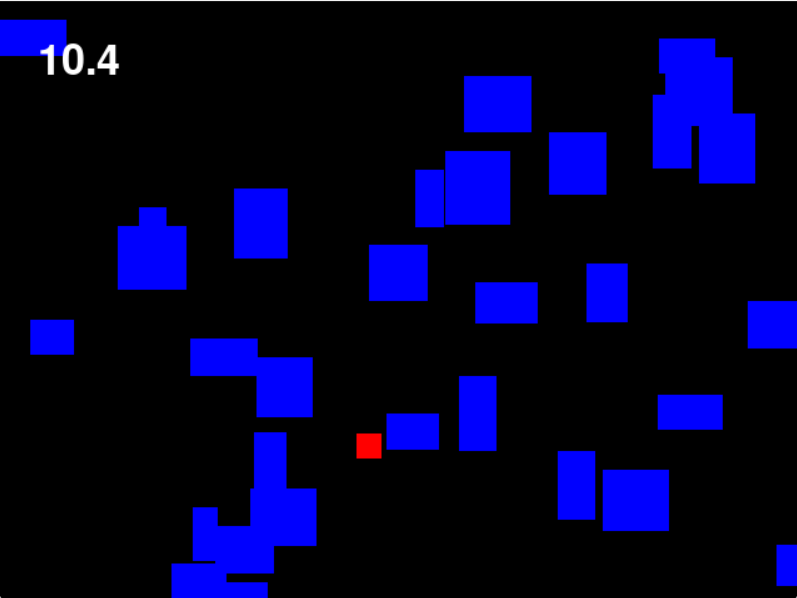
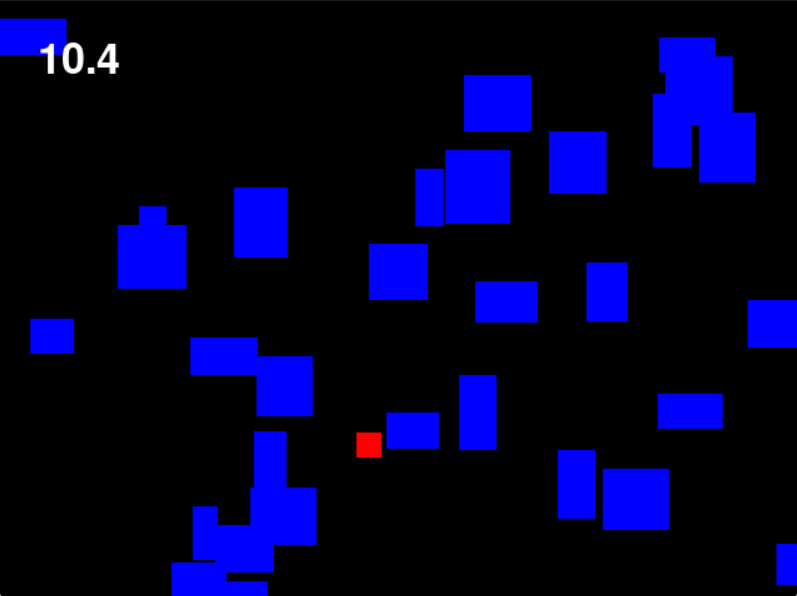
docs: update README

diff --git a/README.md b/README.md
@@ -1,17 +1,27 @@
 # pygame-dodge-game
 Pygameで小さな避けゲーを作り、制作テンプレート化を目指す学習用プロジェクトです。
 
-
-
 ## How to Play
 
-1. プロジェクトのフォルダを開く
-2. ターミナル（コマンドプロンプト）を開く
-3. 以下のコマンドを実行する
+1. Python 3.13.9 のインストール
+2. リポジトリをクローン
+    ```bash
+    git clone https://github.com/dev-haku/pygame-dodge-game.git
+    ```
+3. ディレクトリに移動
+    ```bash
+    cd pygame-dodge-game
+    ```
 
-```bash
-python run.py
-```
+4. 依存関係ライブラリのインストール
+    ```bash
+    python -3.13 -m pip install -r requirements.txt
+    ```
+5. ゲームの起動
+
+    ```bash
+    python run.py
+    ```
 
 ## Screenshot
 <img src="docs/images/screenshot/ver0.1.png" width="300">
